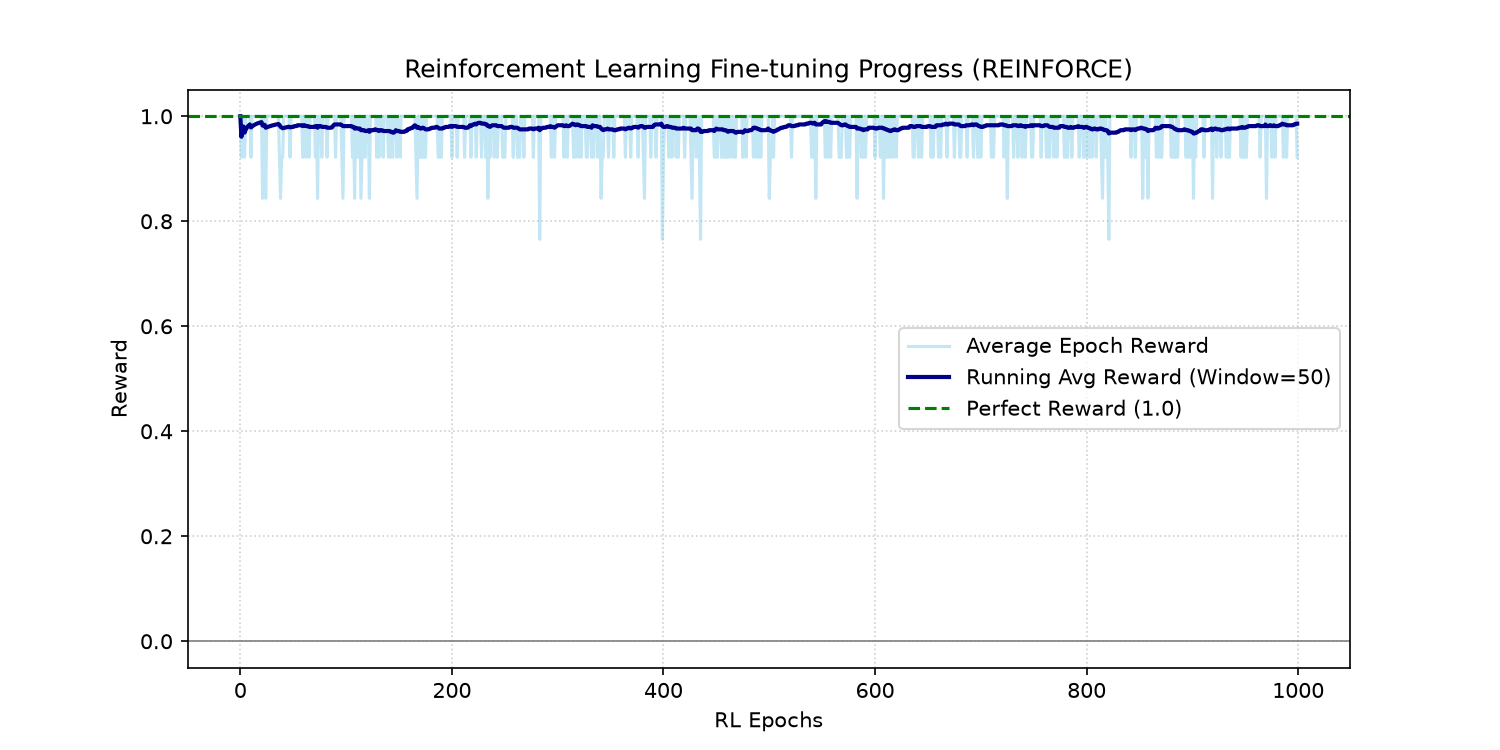
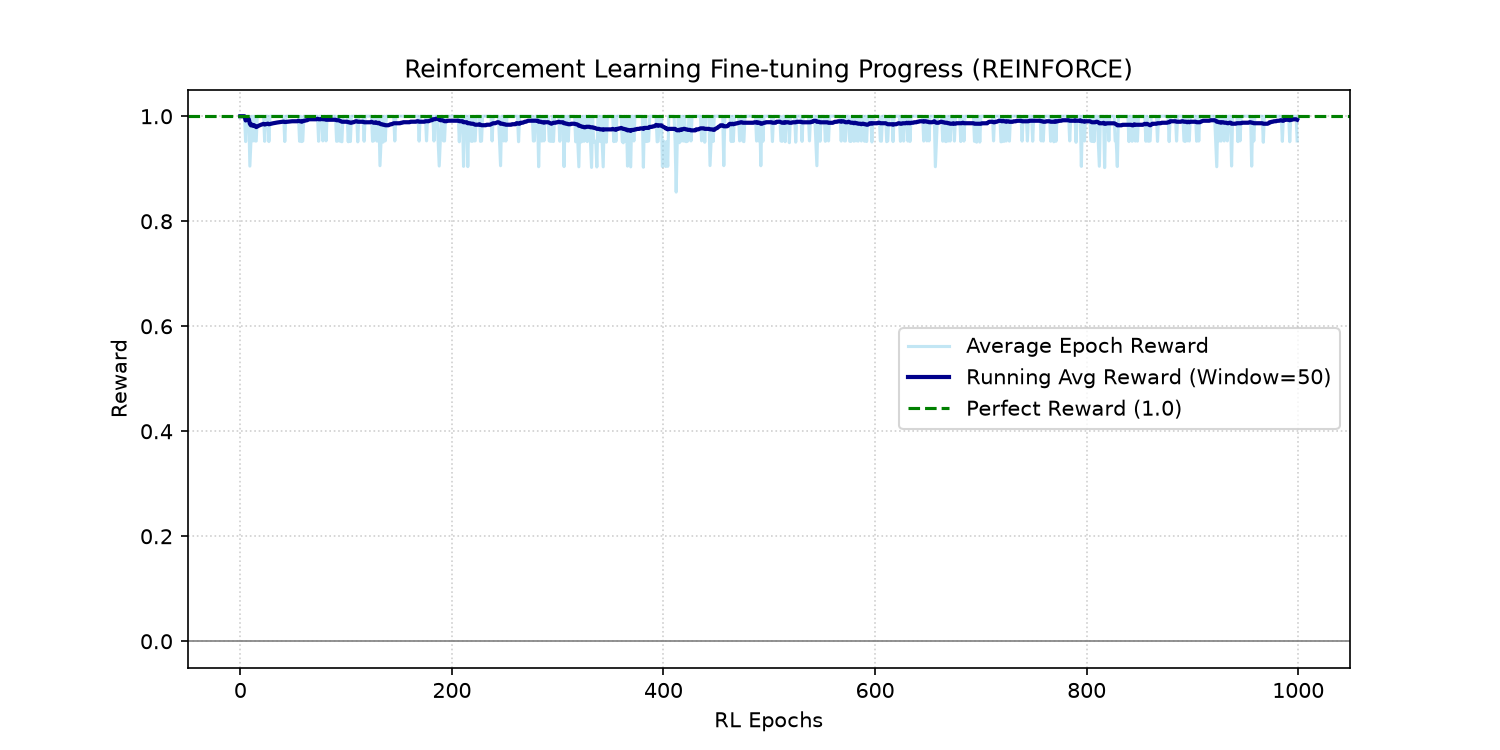
feat: Integrate Gymnasium CircleEnv and continuous distance-based reward shaping

Changed region(s): [[0.1533, 0.1533, 0.8893, 0.276]]

diff --git a/rl/circle_env.py b/rl/circle_env.py
@@ -1,0 +1,93 @@
+import gymnasium as gym
+from gymnasium import spaces
+import numpy as np
+
+class CircleEnv(gym.Env):
+    """
+    Gymnasium environment for the Dynamic 2D Circle Classifier.
+    State (Observation): [x, y, r]
+      - x, y: coordinates in [-15.0, 15.0]
+      - r: circle radius in [0.5, 15.0]
+    Action: 0 (OUTSIDE) or 1 (INSIDE)
+    Reward: +1.0 for correct prediction, -1.5 for incorrect prediction
+    """
+    metadata = {"render_modes": []}
+
+    def __init__(self):
+        super(CircleEnv, self).__init__()
+
+        # State space (Observation space): [x, y, r]
+        low = np.array([-15.0, -15.0, 0.5], dtype=np.float32)
+        high = np.array([15.0, 15.0, 15.0], dtype=np.float32)
+        self.observation_space = spaces.Box(low=low, high=high, dtype=np.float32)
+
+        # Action space: 0 (OUTSIDE) or 1 (INSIDE)
+        self.action_space = spaces.Discrete(2)
+        
+        self.state = None
+
+    def reset(self, seed=None, options=None):
+        super().reset(seed=seed)
+        
+        # Dynamically generate a random state
+        x = np.random.uniform(-15.0, 15.0)
+        y = np.random.uniform(-15.0, 15.0)
+        r = np.random.uniform(0.5, 15.0)
+        
+        self.state = np.array([x, y, r], dtype=np.float32)
+        
+        info = {}
+        return self.state, info
+
+    def step(self, action):
+        # Extract features from current state
+        x, y, r = self.state
+        
+        # Calculate ground truth distance from origin
+        distance = np.sqrt(x**2 + y**2)
+        actual_label = 1 if distance <= r else 0
+
+        # Reward formulation
+        if action == actual_label:
+            reward = 1.0
+        else:
+            # Continuous penalty: larger penalty when far away from boundary, smaller penalty when close
+            reward = -(0.5 + 0.2 * abs(distance - r))
+
+        # Single-step episode
+        terminated = True
+        truncated = False
+        
+        info = {
+            "correct": action == actual_label,
+            "actual_label": actual_label,
+            "boundary_distance": abs(distance - r)
+        }
+
+        return self.state, reward, terminated, truncated, info
+
+if __name__ == "__main__":
+    print("--- Testing CircleEnv (Gymnasium Environment) ---")
+    env = CircleEnv()
+    
+    # Run 5 sample steps to demonstrate how it works
+    for episode in range(1, 6):
+        obs, info = env.reset()
+        x, y, r = obs
+        
+        # Take a random action (0 or 1)
+        action = env.action_space.sample()
+        
+        # Step through the environment
+        next_obs, reward, terminated, truncated, env_info = env.step(action)
+        
+        action_name = "INSIDE (1)" if action == 1 else "OUTSIDE (0)"
+        actual_name = "INSIDE (1)" if env_info["actual_label"] == 1 else "OUTSIDE (0)"
+        result = "CORRECT" if env_info["correct"] else "INCORRECT"
+        
+        print(f"\n[Episode {episode}]")
+        print(f"  State (Point): ({x:+.2f}, {y:+.2f}) | Radius (r): {r:.2f}")
+        print(f"  Action Chosen: {action_name}")
+        print(f"  Actual Target: {actual_name} -> {result}")
+        print(f"  Reward Earned: {reward:+.1f}")
+

diff --git a/rl/rl_finetune.py b/rl/rl_finetune.py
@@ -10,6 +10,7 @@ from torch.distributions import Bernoulli
 # Add project root to path so we can import BaseModel
 sys.path.append(os.path.dirname(os.path.dirname(os.path.abspath(__file__))))
 from model.base_model import BaseModel
+from rl.circle_env import CircleEnv
 
 import yaml
 
@@ -47,23 +48,22 @@ def run_rl_finetuning():
     batch_size = config["batch_size"]
 
     
+    # Initialize Gymnasium environment
+    env = CircleEnv()
+    
     epochs = config["epochs"]
     for epoch in range(1, epochs + 1):
         model.train()
 
-        
         # We collect a batch of experiences
         batch_loss = 0.0
         epoch_rewards = []
         
         for _ in range(batch_size):
-            # 1. Generate state: [x, y, r] dynamically (expanded range)
-            x = np.random.uniform(-15.0, 15.0)
-            y = np.random.uniform(-15.0, 15.0)
-            r = np.random.uniform(0.5, 15.0)
-            state = torch.tensor([x, y, r], dtype=torch.float32)
+            # 1. Reset environment to get a new state/observation
+            obs, info = env.reset()
+            state = torch.tensor(obs, dtype=torch.float32)
 
-            
             # 2. Get policy probability (probability of predicting INSIDE)
             prob = model(state.unsqueeze(0)) # shape: [1, 1]
             
@@ -71,14 +71,9 @@ def run_rl_finetuning():
             dist = Bernoulli(prob)
             action = dist.sample() # 1.0 (INSIDE) or 0.0 (OUTSIDE)
             
-            # 4. Environment step: Calculate reward based on ground truth math
-            distance = np.sqrt(x**2 + y**2)
-            actual_label = 1.0 if distance <= r else 0.0
-            
-            if action.item() == actual_label:
-                reward = 1.0  # Safe/Correct prediction reward
-            else:
-                reward = -1.5 # Heavy penalty for incorrect prediction
+            # 4. Environment step: Pass the sampled action into the env
+            # action.item() is float, convert to int for discrete space
+            next_state, reward, terminated, truncated, env_info = env.step(int(action.item()))
                 
             epoch_rewards.append(reward)
             

diff --git a/README.md b/README.md
@@ -5,6 +5,7 @@
 ![NumPy](https://img.shields.io/badge/numpy-%23013243.svg?style=for-the-badge&logo=numpy&logoColor=white)
 ![Matplotlib](https://img.shields.io/badge/Matplotlib-%23ffffff.svg?style=for-the-badge&logo=Matplotlib&logoColor=black)
 ![YAML](https://img.shields.io/badge/yaml-%23ffffff.svg?style=for-the-badge&logo=yaml&logoColor=red)
+![Gymnasium](https://img.shields.io/badge/Gymnasium-%23000000.svg?style=for-the-badge&logo=gymnasium&logoColor=white)
 ![MIT License](https://img.shields.io/badge/License-MIT-green.svg?style=for-the-badge)
 
 A high-performance, modular Deep Learning repository showcasing **Supervised Pre-training**, **Reinforcement Learning (RL) Fine-Tuning (Alignment)**, **Explainable AI (XAI)**, and **Neural Diagnostics** in PyTorch.
@@ -59,18 +60,21 @@ graph TD
 
 ### 2. Reinforcement Learning (RL) Alignment
 Instead of relying on supervised gradients, we treat the pre-trained classifier as a stochastic policy $\pi_\theta(a|\mathbf{s})$ and optimize it via policy gradients over an expanded domain of $[-15.0, 15.0]$.
+* **Gymnasium Environment**: We wrapped the training domain in a custom `CircleEnv` inheriting from `gymnasium.Env`.
 * **State Space ($\mathcal{S}$)**: $\mathbf{s} = [x_1, x_2, r] \in [-15.0, 15.0]^2 \times [0.5, 15.0]$
 * **Action Space ($\mathcal{A}$)**: Binary prediction $a \in \{0, 1\}$ (0 for OUTSIDE, 1 for INSIDE).
 * **Policy ($\pi_\theta$)**: The model's Sigmoid output probability $p$ forms a Bernoulli distribution.
-* **Reward Function ($\mathcal{R}$)**:
+* **Shaped Reward Function ($\mathcal{R}$)**:
+  Instead of static feedback, we use a continuous, distance-based penalty to help the agent learn boundary precision:
 
-$$\mathcal{R}(\mathbf{s}, a) = \begin{cases} +1.0 & \text{if prediction } a \text{ is correct} \\ -1.5 & \text{if prediction } a \text{ is incorrect (penalty)} \end{cases}$$
+$$\mathcal{R}(\mathbf{s}, a) = \begin{cases} +1.0 & \text{if prediction } a \text{ is correct} \\ -(0.5 + 0.2 \times |d - r|) & \text{if prediction } a \text{ is incorrect (shaped penalty)} \end{cases}$$
 
+  where $d = \sqrt{x_1^2 + x_2^2}$ is the distance to the origin and $r$ is the dynamic boundary radius.
 * **REINFORCE Algorithm**: We update the policy parameters using the policy gradient loss:
 
 $$\mathcal{L}_{PG}(\theta) = -\log \pi_\theta(a|\mathbf{s}) \times \mathcal{R}(\mathbf{s}, a)$$
 
-* **Warm Start & LR Alignment**: Starting from SFT weights prevents the RL agent from starting from zero-knowledge. Lowering the learning rate to $lr=0.001$ protects the pre-trained weights from collapsing (**Catastrophic Forgetting**), resulting in a stable reward convergence of **+0.978+** (where 1.0 is perfect).
+* **Warm Start & Convergence**: Starting from SFT weights prevents the RL agent from starting from zero-knowledge. Lowering the learning rate to $lr=0.001$ protects the pre-trained weights from collapsing (**Catastrophic Forgetting**), resulting in a stable reward convergence of **+0.993** (where 1.0 is perfect).
 
 
 ---